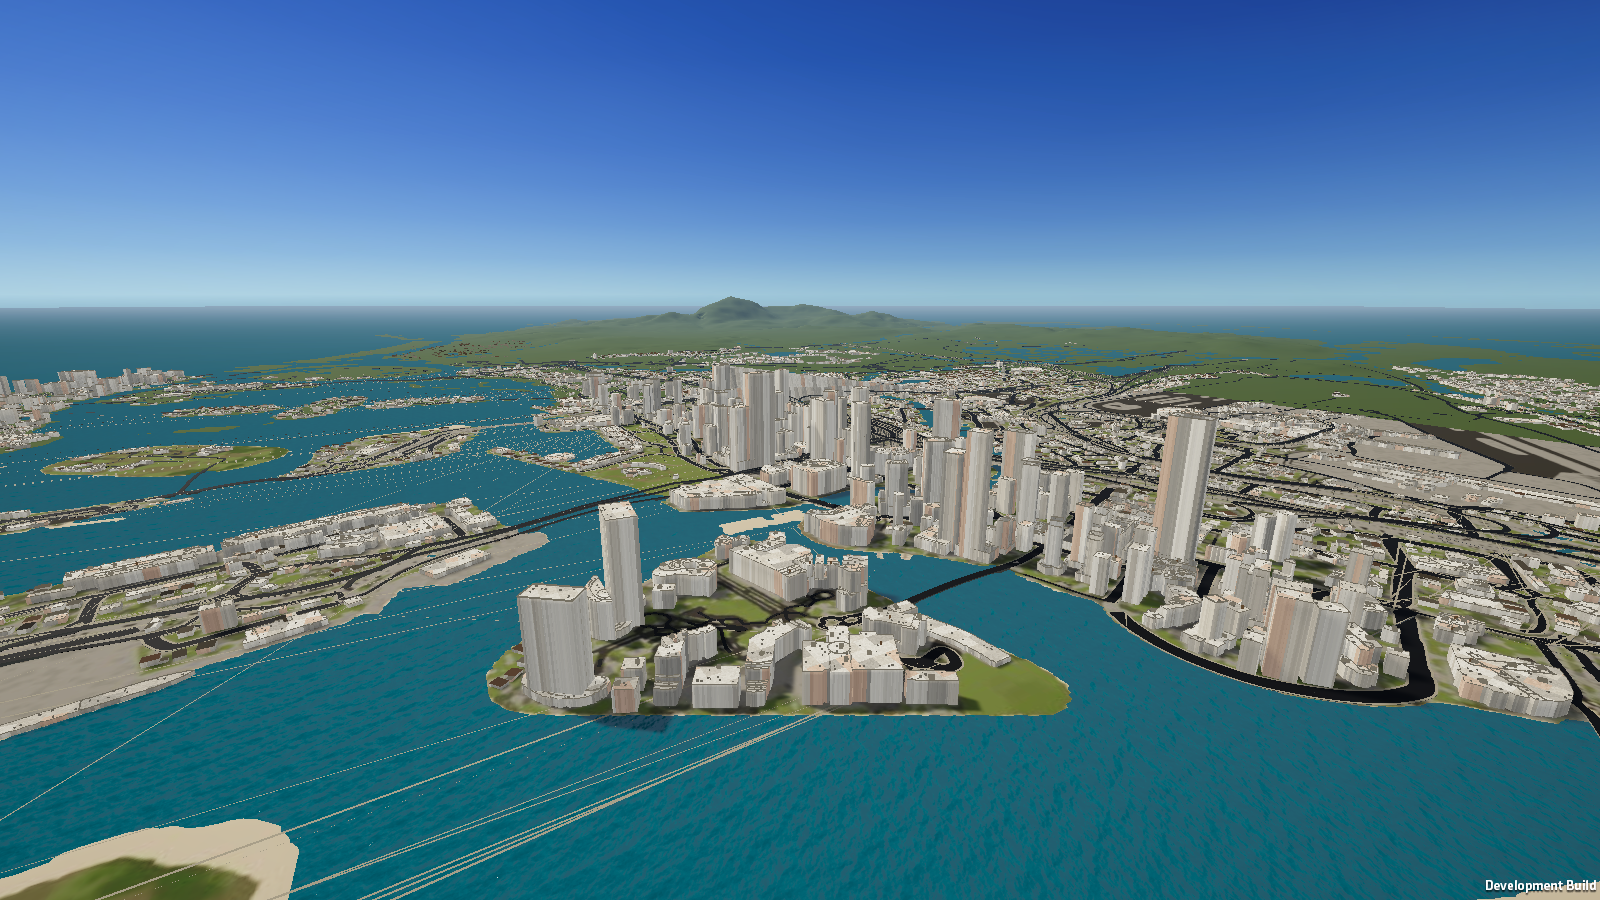
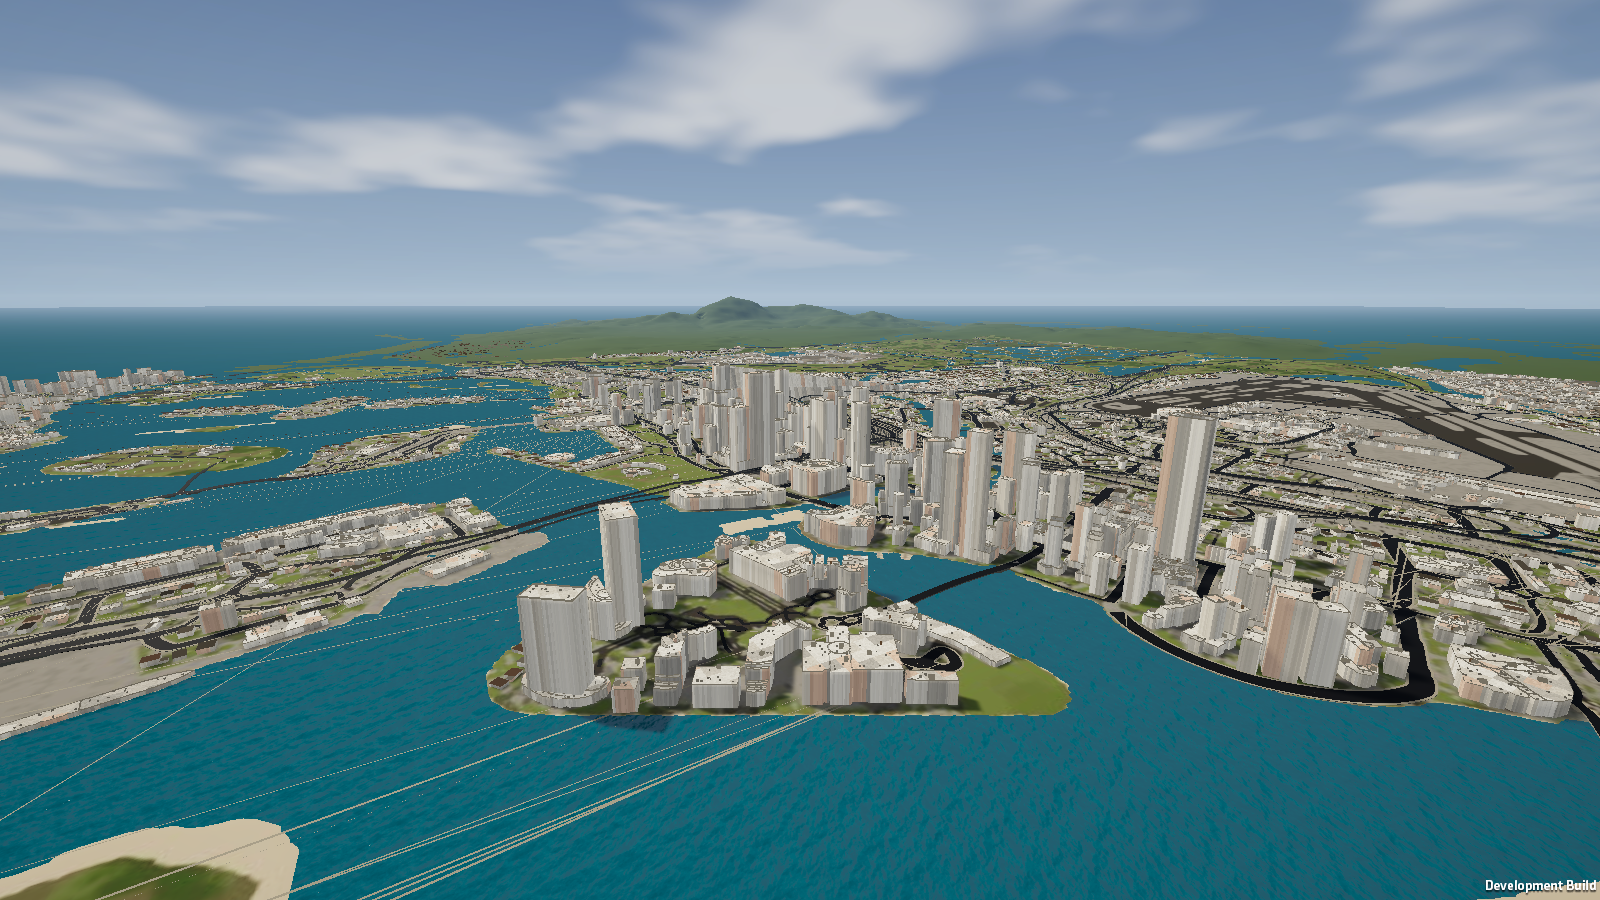
Unity render: cloud sky, facade palette/balconies, wider near terrain

diff --git a/unity/Assets/Leonida/Editor/LeonidaSceneBuilder.cs b/unity/Assets/Leonida/Editor/LeonidaSceneBuilder.cs
@@ -53,9 +53,9 @@ namespace Leonida.EditorTools
             RenderSettings.fogMode = FogMode.ExponentialSquared;
             RenderSettings.fogDensity = 0.00007f;
             RenderSettings.fogColor = new Color(0.62f, 0.72f, 0.82f);
-            RenderSettings.skybox = AssetDatabase.LoadAssetAtPath<Material>("Assets/Leonida/Resources/ProceduralSky.mat");
+            RenderSettings.skybox = AssetDatabase.LoadAssetAtPath<Material>("Assets/Leonida/Resources/LeonidaSky.mat");
             if (RenderSettings.skybox == null)
-                RenderSettings.skybox = AssetDatabase.LoadAssetAtPath<Material>("Assets/Leonida/Resources/LeonidaSky.mat");
+                RenderSettings.skybox = AssetDatabase.LoadAssetAtPath<Material>("Assets/Leonida/Resources/ProceduralSky.mat");
             if (cam != null && RenderSettings.skybox != null) cam.clearFlags = CameraClearFlags.Skybox;
 
             EditorSceneManager.SaveScene(scene, ScenePath);

diff --git a/unity/Assets/Leonida/Runtime/LeonidaEnvironment.cs b/unity/Assets/Leonida/Runtime/LeonidaEnvironment.cs
@@ -15,8 +15,8 @@ namespace Leonida
 
         public void Init(Camera cam, Light sun)
         {
-            var sky = Resources.Load<Material>("ProceduralSky");
-            if (sky == null) sky = Resources.Load<Material>("LeonidaSky");
+            var sky = Resources.Load<Material>("LeonidaSky");
+            if (sky == null) sky = Resources.Load<Material>("ProceduralSky");
             if (sky == null)
             {
                 Debug.LogWarning("Leonida: sky material missing");

diff --git a/unity/Assets/Leonida/Runtime/LeonidaBootstrap.cs b/unity/Assets/Leonida/Runtime/LeonidaBootstrap.cs
@@ -121,7 +121,7 @@ namespace Leonida
 
             var terrain = gameObject.AddComponent<LeonidaTerrain>();
             terrain.Build(Manifest, _assetsRoot);
-            terrain.BuildNear(Manifest, _assetsRoot, ci, cj, 1);
+            terrain.BuildNear(Manifest, _assetsRoot, ci, cj, 2);
 
             Status = $"loading chunks around {ci}_{cj}";
 
